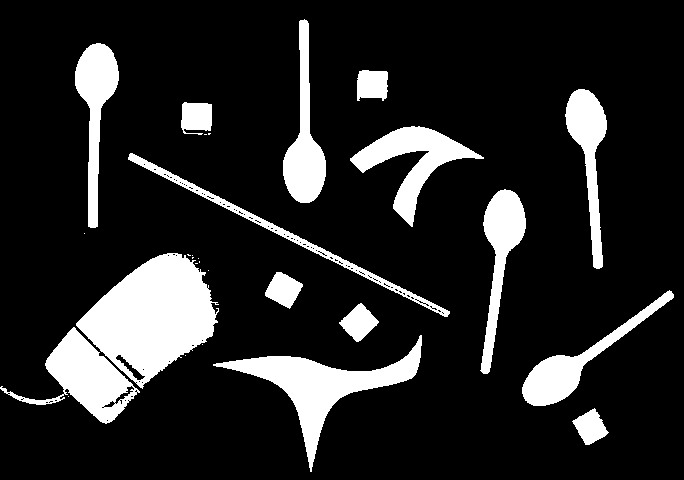
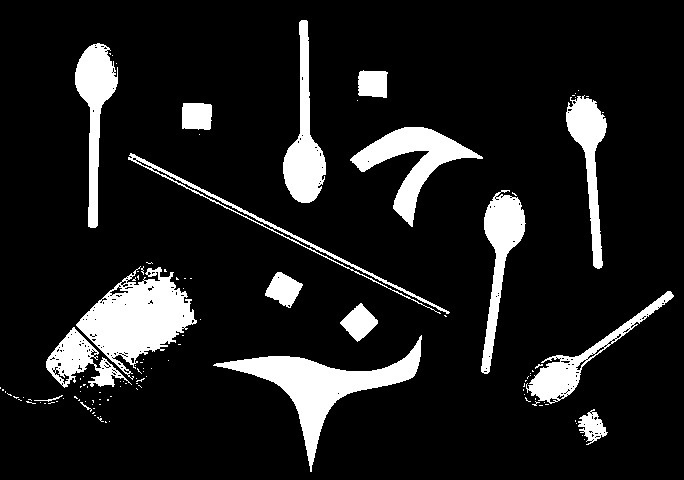
temp commit

diff --git a/lab1.rb b/lab1.rb
@@ -1,7 +1,7 @@
 # encoding: utf-8
 require 'RMagick'
 require 'k_means'
-[File.expand_path('../group.rb', __FILE__)].each {|f| require f}
+[File.expand_path('../group.rb', __FILE__)].each { |f| require f }
 
 GROUPS = 6.freeze
 MIN_SQUARE = 60.freeze
@@ -14,62 +14,129 @@ MIN_P = 10.freeze
 img = Magick::Image.read('images/image.jpg').first
 
 # Changes the brightness, saturation, and hue
-@med = img.dup.modulate(0.4)
-@med.write 'images/result/med.jpg'
+med = img.dup.modulate(0.4)
+med.write 'images/result/med.jpg'
 
 # Change the value of individual pixels based on the intensity of each pixel compared to threshold
-@bin = @med.dup.threshold(Magick::MaxRGB * 0.10)
-@bin.write 'images/result/bin.jpg'
+bin = med.dup.threshold(Magick::MaxRGB * 0.15)
+bin.write 'images/result/bin.jpg'
+detect = bin.dup
 ####################################################
 
 
 ####################################################
 ### Detect items
 ####################################################
-checked = []
-2000.times { |i| checked[i] = Array.new(2000) }
-@groups = []
+@image_arr = []
+bin.rows.times { |i| @image_arr[i] = Array.new(bin.columns) }
 
-@detect = @bin.dup
-@detect.each_pixel do | _, column, row|
-  group ||= Group.new(@detect, checked)
-
-  if group.item?(column, row)
-    group.process_queue << [column, row]
-    group.process
-    @groups << group
-    group = Group.new(@detect, checked)
-  end
-
-  print '.' if column == 0
+bin.each_pixel do |pixel, column, row|
+  @image_arr[row][column] = Group.item?(pixel) ? 1 : 0
 end
 
-print "\n"
+# @image_arr.each_with_index do |row, i|
+#   # row.each_with_index do |m_pixel, j|
+#   #   p row
+#   # end
+#   p row
+#   printf "\n"
+# end
 
-@groups.reject!{|g| g.dots.empty? || g.count < MIN_SQUARE || g.p < MIN_P}
+@kn, @km, @a, @b, @c = 0, 0, 0, 0, 0
+@group_number = 0
+
+@image_arr.each_with_index do |row, i|
+  row.each_with_index do |m_pixel, j|
+    @kn = j - 1
+    if @kn <= 0
+      @kn = 1
+      @b = 0
+    else
+      @b = @image_arr[i][@kn]
+    end
+
+    @km = i - 1
+    if @km <= 0
+      @km = 0
+      @c = 0
+    else
+      @c = @image_arr[@km][j]
+    end
+
+    @a = @image_arr[i][j]
+    if @a == 0
+    elsif @b == 0 && @c == 0
+      @group_number += 1
+      @image_arr[i][j] = @group_number
+    elsif @b == 0 && @c != 0
+      @image_arr[i][j] = @c
+    elsif @b != 0 && @c != 0
+      if @b == @c
+        @image_arr[i][j] = @b
+      else
+        @image_arr[i][j] = @b
+        # some extra code here
+      end
+    end
+  end
+  print '.'
+end
+
+
+@groups = {}
+
+
+@image_arr.each_with_index do |row, i|
+  row.each_with_index do |m_pixel, j|
+    # m_pixel - 2 because: @group_number starts from 2
+    next if m_pixel - 2 < 0
+    group = @groups[m_pixel - 2] || Group.new(@image_arr)
+    group.dots << [i, j]
+    @groups[m_pixel - 2] = group
+  end
+end
+
+@groups.each { |group| group.process }
+
+# @detect.each_pixel do |_, column, row|
+#   group ||= Group.new(@detect, checked)
+#
+#   if group.item?(column, row)
+#     group.process_queue << [column, row]
+#     group.process
+#     @groups << group
+#     group = Group.new(@detect, checked)
+#   end
+#
+#   print '.' if column == 0
+# end
+#
+# print "\n"
+#
+@groups.reject! { |g| g.dots.empty? || g.count < MIN_SQUARE || g.p < MIN_P }
 @groups.each_with_index do |group, i|
   color = RandomColor.get
   puts "Группа ##{i}: #{group.info}"
-  group.dots.each { |x,y| @detect.pixel_color(x, y, color) }
+  group.dots.each { |x, y| detect.pixel_color(y, x, color) }
 end
 
-@detect.write 'images/result/detect.jpg'
+detect.write 'images/result/detect.jpg'
+#
+#
+# ####################################################
+# ### Classify using k-medians algorythm
+# ####################################################
+@classify = bin.dup
 
-
-####################################################
-### Classify using k-medians algorythm
-####################################################
-@classify = @bin.dup
-
-data = @groups.map{|g| g.analyzing_params}
+data = @groups.map { |g| g.analyzing_params }
 kmeans = KMeans.new(data, :centroids => GROUPS).view
 kmeans.each do |ind|
   color = RandomColor.get
   ind.each do |i|
     params = data[i]
-    selected = @groups.select{|g| g.analyzing_params == params }
+    selected = @groups.select { |g| g.analyzing_params == params }
     selected.each do |group|
-      group.dots.each {|x,y| @classify.pixel_color(x, y, color) }
+      group.dots.each { |x, y| @classify.pixel_color(y, x, color) }
     end
   end
 end

diff --git a/group.rb b/group.rb
@@ -8,44 +8,19 @@ class Group
 
   SQUARE = SQUARE_8
 
-  attr_reader :mass, :count, :p, :comp, :dots, :process_queue, :decentered
+  attr_reader :mass, :count, :p, :comp, :dots, :decentered
 
-  def initialize(img, checked)
-    @img = img
+  def initialize(image_arr)
     @mass = [1, 1]
     @p = 1
     @dots = []
-    @process_queue = []
-    @checked = checked
+    @image_arr = image_arr
   end
 
-  def item?(column, row)
-    SQUARE.any? { |dx, dy| @img.pixel_color(column + dx, row + dy).intensity > MAX_INTENSITY }
-  end
 
   def process
-    while !@process_queue.empty?
-      sc, sr = @process_queue.shift
-
-      next if sc < 0 || sr < 0 || sc > @img.columns || sr > @img.rows
-      next if @checked[sc][sr]
-
-      # store all dots
-      @dots << [sc, sr]
-
-      # mark do as checked
-      @checked[sc][sr] = true
-
-      # calculate mass
-      @mass[0] += sc
-      @mass[1] += sr
-
-      if item?(sc, sr)
-        SQUARE.each { |dx, dy| (@process_queue << [sc + dx, sr + dy]) }
-      else
-        @p += 1
-      end
-    end
+    calculate_mass
+    calculate_perimeter
     count_metrics
   end
 
@@ -63,7 +38,29 @@ class Group
     [self.count, self.p]
   end
 
+
+  def self.item?(pixel)
+    pixel.intensity > MAX_INTENSITY
+  end
+
   private
+
+  def calculate_mass
+    @dots.each do |row, column|
+      @mass[0] += row
+      @mass[1] += column
+    end
+  end
+
+  def calculate_perimeter
+    @dots.each do |row, column|
+      @p += 1 if border_pixel?(row, column)
+    end
+  end
+
+  def border_pixel?(row, column)
+    SQUARE.any? { |dx, dy| @image_arr[row + dx][column + dy] > 1 } #!?
+  end
 
   def count_metrics
     return if @dots.empty?
@@ -93,5 +90,4 @@ class Group
   def moment(i, j)
     @dots.inject(0) { |sum, (x, y)| sum + ((x - @mass[0]) ** i) * ((y - @mass[1]) ** j) }
   end
-
 end
